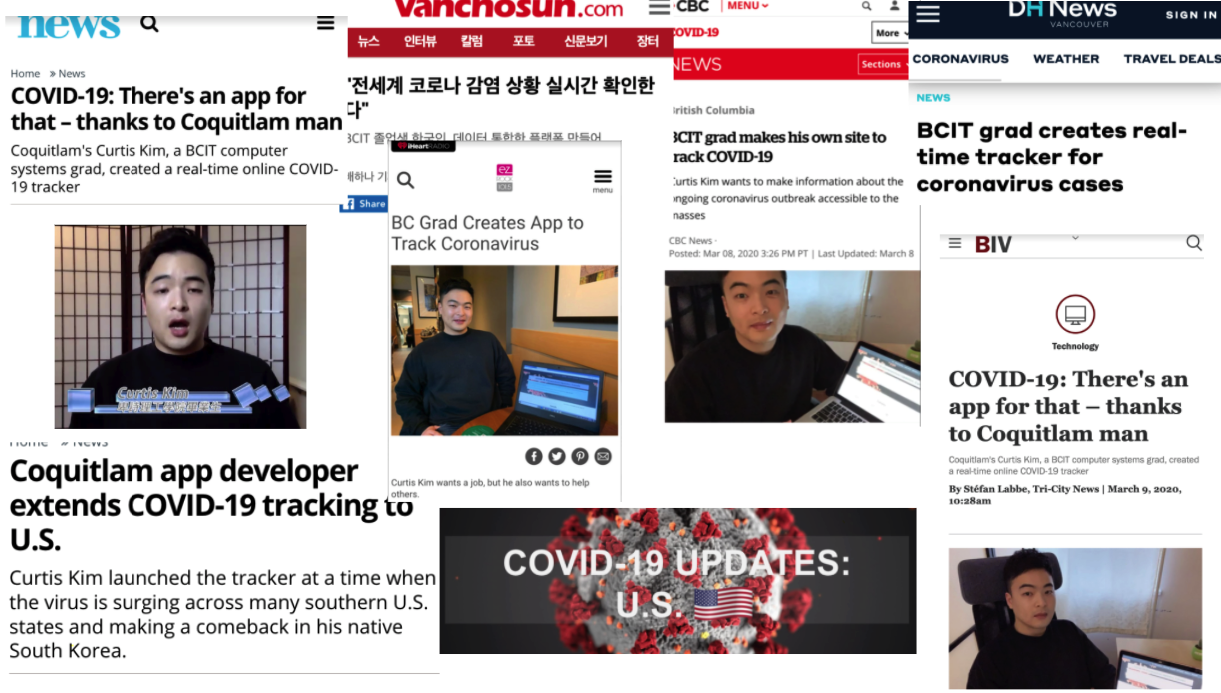
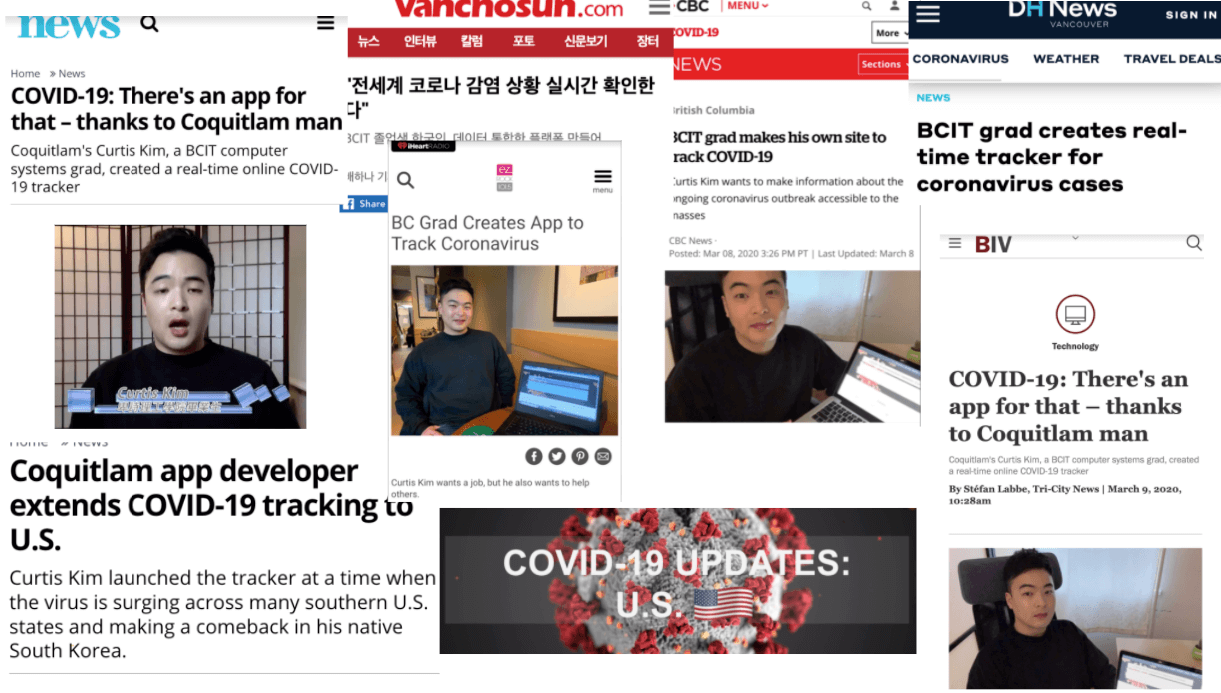
adds news

diff --git a/views/about.html b/views/about.html
@@ -53,7 +53,7 @@
         <!-- Portfolio Grid Items -->
         <div class="row justify-content-around">
           <div class="col-8">
-            <img id="myImg" class="img-fluid image" src="img/intro/all_news.png" alt=""
+            <img id="myImg" class="img-fluid image" src="img/intro/all_news2.png" alt=""
               style="width:80%; margin:auto;">
 
 
@@ -104,30 +104,45 @@
         </div>
         <br><br>
         <hr />
+        <br>
         <div class="row justify-content-around">
 
           <!-- Portfolio Item 1 -->
-          <div class="col-3" style="max-height: 517px;">
+          <div class="col-4">
+            <div class="portfolio-item mx-auto" data-toggle="modal" data-target="#intro-2">
+              <img class="img-fluid image" style="margin:auto; width: auto; max-height: 267px;" src="img/intro/careerTalk3.png" alt="">
+              <div class="middle">
+                <i class="fas fa-plus fa-3x"></i>
+              </div>
+            </div>
+            <h4 class="text-center">Global Career Talk: Live (Kor.) 2020 (Aug 2020)</h4>
+          </div>
+
+          <div class="col-4">
             <div class="portfolio-item mx-auto" data-toggle="modal" data-target="#intro-1">
-              <img class="img-fluid image" src="img/intro/tricity_us_news.png" alt="">
+              <img class="img-fluid image" style="margin:auto; width: auto; max-height: 267px;" src="img/intro/tricity_us_news.png" alt="">
               <div class="middle">
                 <i class="fas fa-plus fa-3x"></i>
               </div>
             </div>
-            <h4 class="text-center">COVID-19 Updates: US</h4>
+            <h4 class="text-center">COVID-19 Updates: US (June 2020)</h4>
           </div>
-          <div class="col-3" style="max-height: 517px;">
+          <div class="col-4">
             <div class="portfolio-item mx-auto" data-toggle="modal" data-target="#intro0">
-              <img class="img-fluid image" src="img/intro/cbcnews.png" alt="">
+              <img class="img-fluid image" style="margin:auto; width: auto; max-height: 267px;" src="img/intro/cbcnews.png" alt="">
               <div class="middle">
                 <i class="fas fa-plus fa-3x"></i>
               </div>
             </div>
-            <h4 class="text-center">COVID-19 Updates: Canada</h4>
+            <h4 class="text-center">COVID-19 Updates: Canada (Mar 2020)</h4>
           </div>
-          <div class="col-3" style="max-height: 517px;">
+        </div>
+        
+        <br><br><br><br>
+        <div class="row justify-content-around">
+          <div class="col-4">
             <div class="portfolio-item mx-auto" data-toggle="modal" data-target="#intro1">
-              <img class="img-fluid image" src="img/intro/inovateBC.png" alt="">
+              <img class="img-fluid image" style="margin:auto; width: auto; max-height: 267px;" src="img/intro/inovateBC.png" alt="">
               <div class="middle">
                 <i class="fas fa-plus fa-3x"></i>
               </div>
@@ -135,9 +150,9 @@
             <h4 class="text-center">InnovateBC News (Nov 2019)</h4>
           </div>
 
-          <div class="col-3" style="max-height: 517px;">
+          <div class="col-4">
             <div class="portfolio-item mx-auto" data-toggle="modal" data-target="#intro2">
-              <img class="img-fluid image" src="img/intro/ipiu2016.png" alt="">
+              <img class="img-fluid image" style="margin:auto; width: auto; max-height: 267px;" src="img/intro/ipiu2016.png" alt="">
               <div class="middle">
                 <i class="fas fa-plus fa-3x"></i>
               </div>
@@ -147,6 +162,7 @@
           </div>
 
         </div>
+        <br><br>
         <!-- /.row -->
         <!-- Portfolio Item 1 -->
       </div>
@@ -166,7 +182,59 @@
 </section>
 
 <!-- Detail -->
+
 <!-- Intro-1 -->
+<div class="portfolio-modal modal fade" id="intro-2" tabindex="-1" role="dialog" aria-labelledby="portfolioModal1Label"
+  aria-hidden="true">
+  <div class="modal-dialog modal-xl" role="document">
+    <div class="modal-content">
+      <button type="button" class="close" data-dismiss="modal" aria-label="Close">
+        <span aria-hidden="true">
+          <i class="fas fa-times"></i>
+        </span>
+      </button>
+      <div class="modal-body text-center">
+        <div class="container">
+          <div class="row justify-content-around">
+            <div class="col-lg-8">
+              <!-- Portfolio Modal - Title -->
+              <h2 class="portfolio-modal-title text-secondary text-uppercase mb-0">Global Career Talk 2020 Kor Live
+              </h2>
+              <!-- Icon Divider -->
+              <div class="divider-custom">
+                <div class="divider-custom-line"></div>
+                <div class="divider-custom-icon">
+                  <i class="fas fa-star"></i>
+                </div>
+                <div class="divider-custom-line"></div>
+              </div>
+              <!-- Portfolio Modal - Image -->
+              <!-- <img class="img-fluid rounded mb-5" src="img/intro/innovateBC.png" alt="https://bit.ly/2L4Mv0t"> -->
+              <span>
+                Career Talk 2020 Webinar Zoom Seminar Career Talk 2020 (Canada, US, Japan, Germany, Vietnam, Singapore, Australia, etc.)</span>
+              <img class="img-fluid image" src="img/intro/careerTalk2.jpeg" alt="">
+              <!-- Portfolio Modal - Text -->
+              <img class="img-fluid image" src="img/intro/careerTalk1.jpeg" alt="">
+              <img class="img-fluid image" src="img/intro/careerTalk3.png" alt="">
+              </br>
+              </br>
+              <p>
+                
+              </p>
+              <a
+                href="https://www.yna.co.kr/view/AKR20200804049800003">READ
+                MORE</a><br>
+              <button class="btn btn-primary" href="#" data-dismiss="modal">
+                <i class="fas fa-times fa-fw"></i>
+                Close Window
+              </button>
+            </div>
+          </div>
+        </div>
+      </div>
+    </div>
+  </div>
+</div>
 <div class="portfolio-modal modal fade" id="intro-1" tabindex="-1" role="dialog" aria-labelledby="portfolioModal1Label"
   aria-hidden="true">
   <div class="modal-dialog modal-xl" role="document">

diff --git a/views/experience.html b/views/experience.html
@@ -4,6 +4,17 @@
       <h2 class="page-section-heading text-center text-uppercase text-secondary mb-5">Experience</h2>
 
 
+      <div class="resume-item d-flex flex-column flex-md-row justify-content-between mb-5">
+        <div class="resume-content">
+          <h3 class="mb-0">Software Engineer, Full-time</h3>
+          <div class="subheading mb-3">RISE PEOPLE. Vancouver, BC, Canada</div>
+          <p>
+          </p>
+        </div>
+        <div class="resume-date text-md-right">
+          <span class="text-primary">Apr. 2020 ~</span>
+        </div>
+      </div>
 
 
       <div class="resume-item d-flex flex-column flex-md-row justify-content-between mb-5">

diff --git a/css/style.css b/css/style.css
@@ -122,6 +122,7 @@ body{
     height: auto;
     transition: .5s ease;
     backface-visibility: hidden;
+    cursor: pointer;
   }
   
   .middle {
